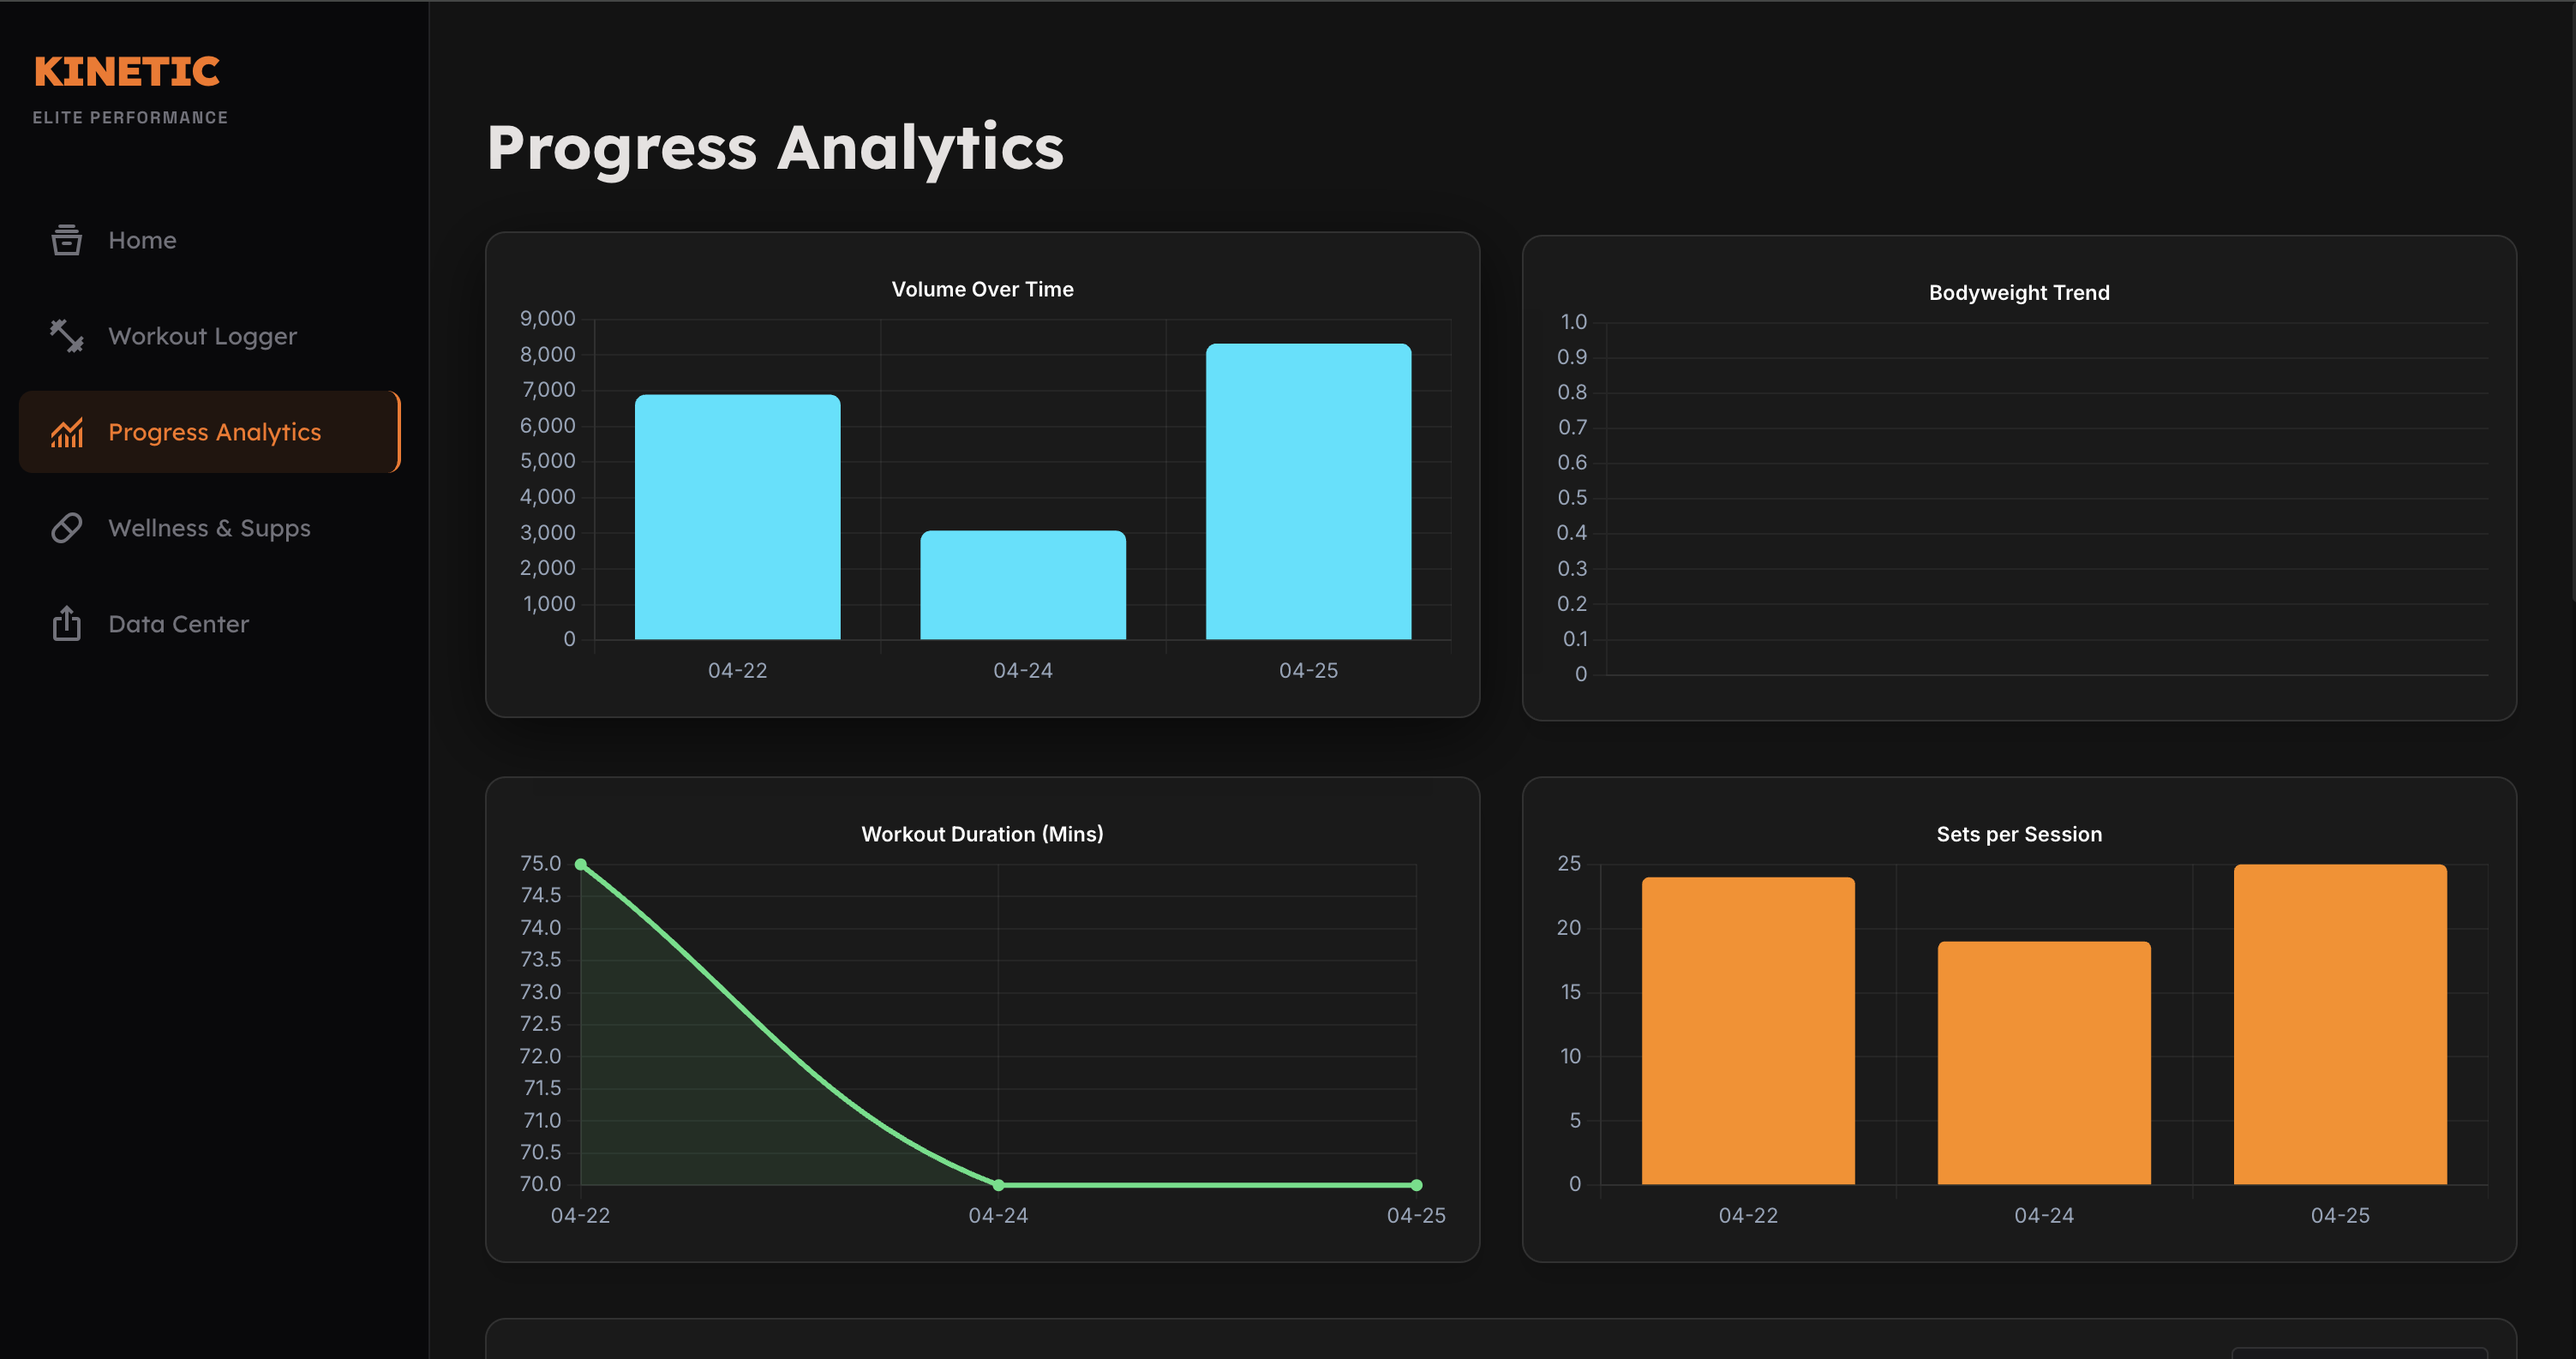
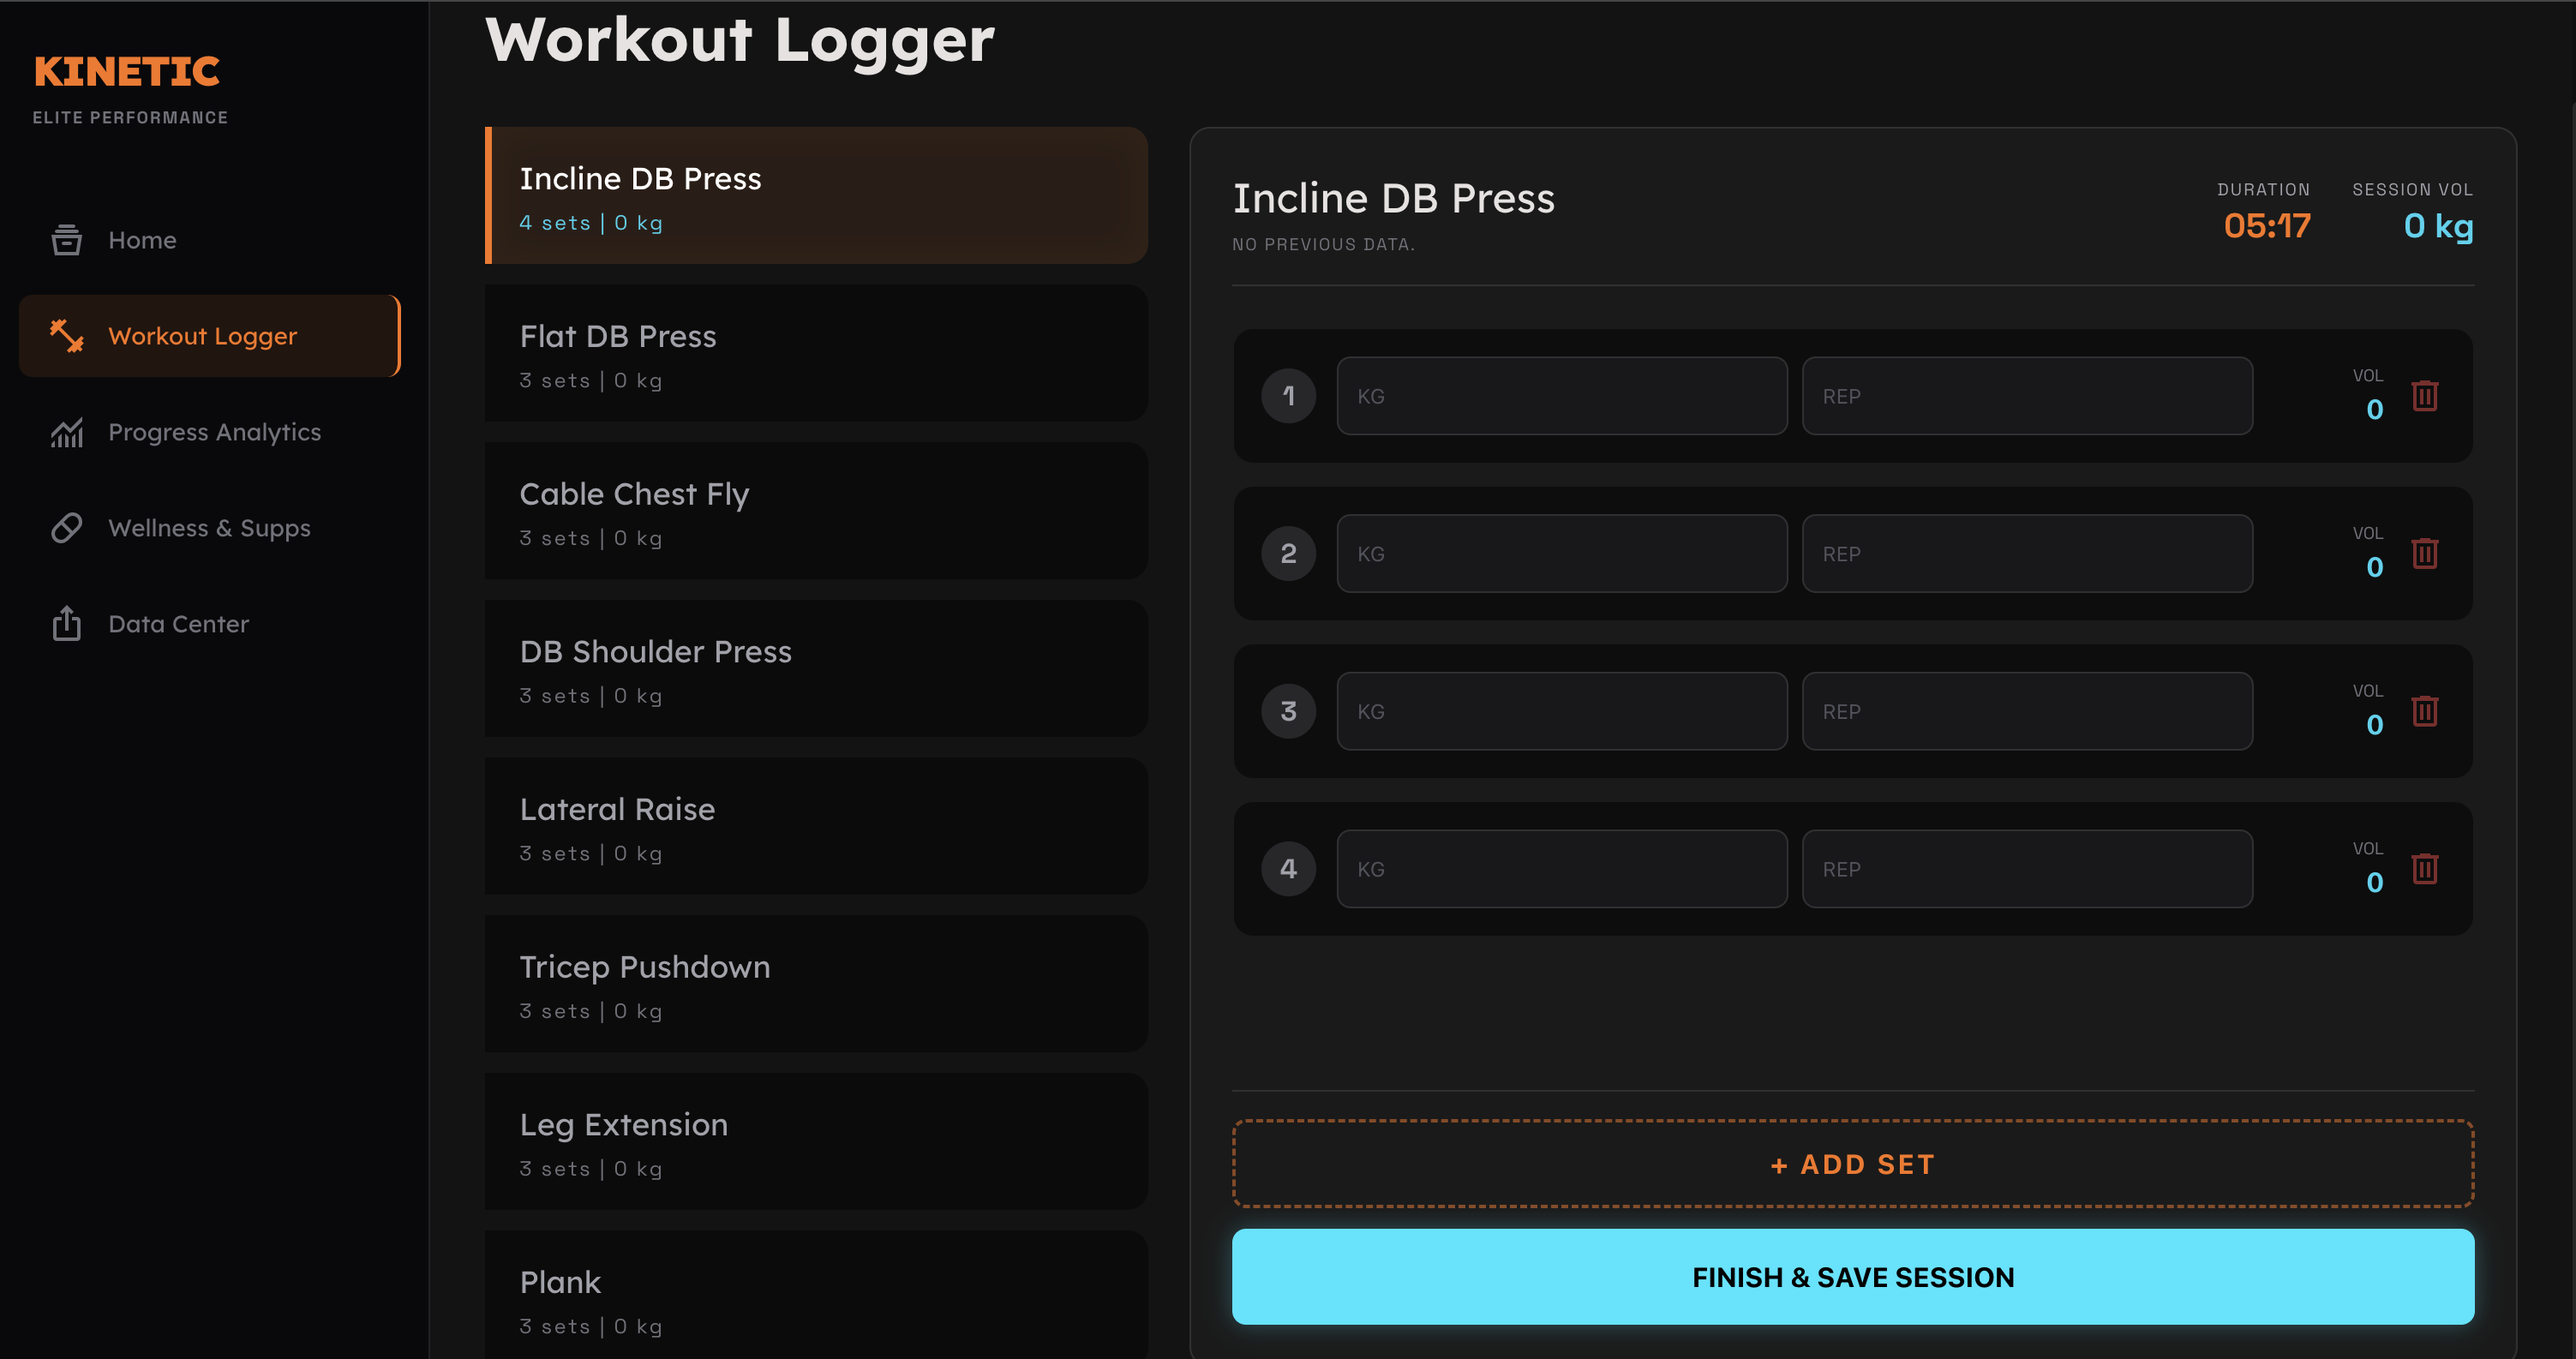
Update screenshots and use stats2.png

diff --git a/README.md b/README.md
@@ -24,7 +24,7 @@ Kinetic is a completely serverless, zero-dependency workout companion built for 
 ### 1. The Dashboard & Analytics
 Track your mass trends, volume PRs, and monthly progressions through an intuitive, data-dense dashboard.
 
-<img src="assets/stats.png" alt="Performance Analytics" width="800"/>
+<img src="assets/stats2.png" alt="Performance Analytics" width="800"/>
 
 ### 2. Live Workout Logger
 Focus on your lift. The streamlined logger handles the math, calculates your volume per exercise, and manages your rest periods.
